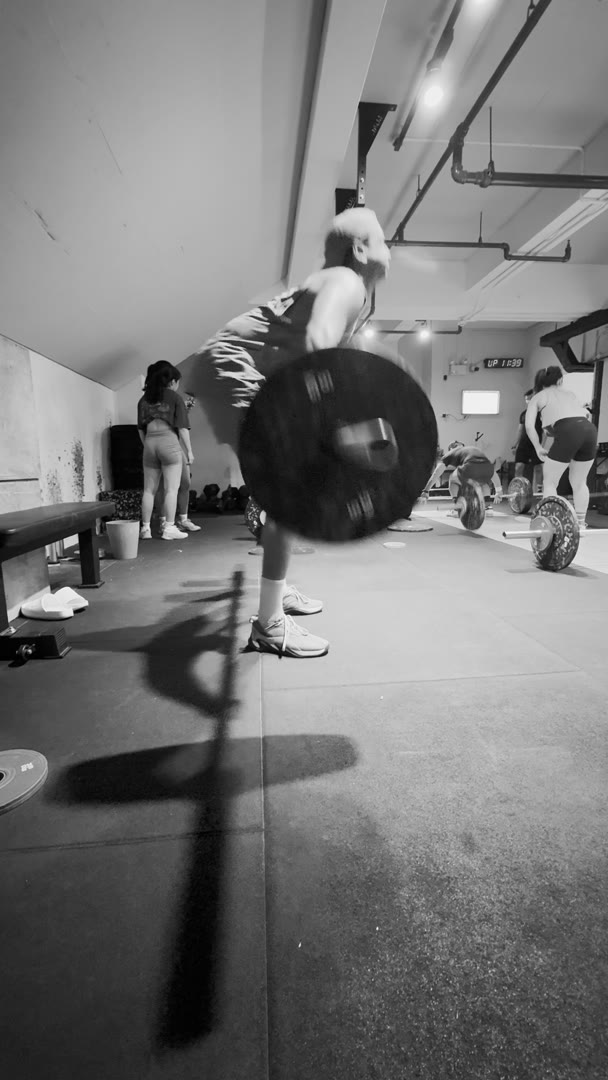
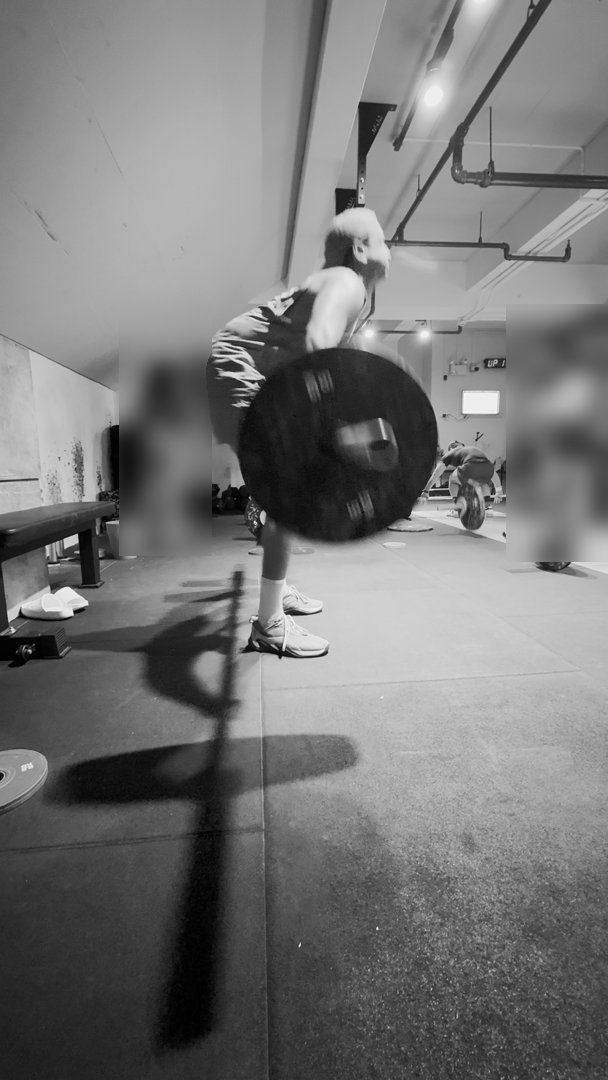
fix(onboarding): sample uses the real side-on CV analysis, bystanders blurred
The sample was a hand-drawn path over an angled clip, so the line floated
beside the lifter. It now uses CV v2 output for a side-on power snatch.

Changed region(s): [[0.8125, 0.275, 1.0, 0.5194], [0.1875, 0.3056, 0.3438, 0.5194]]

diff --git a/src/analysis/frames.ts b/src/analysis/frames.ts
@@ -87,6 +87,34 @@ const BUNDLED: Record<string, { color: ImageSourcePropType; gray: ImageSourcePro
     color: require('../../assets/analysis/snatch-real/r2-7-recovery.jpg'),
     gray: require('../../assets/analysis/snatch-real/gray/r2-7-recovery.jpg'),
   },
+  'snatch-sideon/r1-1-setup': {
+    color: require('../../assets/analysis/snatch-sideon/r1-1-setup.jpg'),
+    gray: require('../../assets/analysis/snatch-sideon/gray/r1-1-setup.jpg'),
+  },
+  'snatch-sideon/r1-2-first_pull': {
+    color: require('../../assets/analysis/snatch-sideon/r1-2-first_pull.jpg'),
+    gray: require('../../assets/analysis/snatch-sideon/gray/r1-2-first_pull.jpg'),
+  },
+  'snatch-sideon/r1-3-transition': {
+    color: require('../../assets/analysis/snatch-sideon/r1-3-transition.jpg'),
+    gray: require('../../assets/analysis/snatch-sideon/gray/r1-3-transition.jpg'),
+  },
+  'snatch-sideon/r1-4-second_pull': {
+    color: require('../../assets/analysis/snatch-sideon/r1-4-second_pull.jpg'),
+    gray: require('../../assets/analysis/snatch-sideon/gray/r1-4-second_pull.jpg'),
+  },
+  'snatch-sideon/r1-5-turnover': {
+    color: require('../../assets/analysis/snatch-sideon/r1-5-turnover.jpg'),
+    gray: require('../../assets/analysis/snatch-sideon/gray/r1-5-turnover.jpg'),
+  },
+  'snatch-sideon/r1-6-catch': {
+    color: require('../../assets/analysis/snatch-sideon/r1-6-catch.jpg'),
+    gray: require('../../assets/analysis/snatch-sideon/gray/r1-6-catch.jpg'),
+  },
+  'snatch-sideon/r1-7-recovery': {
+    color: require('../../assets/analysis/snatch-sideon/r1-7-recovery.jpg'),
+    gray: require('../../assets/analysis/snatch-sideon/gray/r1-7-recovery.jpg'),
+  },
 };
 
 export function frameSource(image: string | undefined, gray = false): ImageSourcePropType | null {

diff --git a/src/analysis/fixtures/index.ts b/src/analysis/fixtures/index.ts
@@ -2,6 +2,7 @@ import type { Analysis, Point, Rep } from '../types';
 import { keyFrameForPhase, pointAt, repByIndex } from '../timeline';
 import mock from './snatch-mock.json';
 import real from './snatch-real.json';
+import sideon from './snatch-sideon.json';
 import { parseAnalysis } from '../parse';
 import { liveAnalysis } from '../live';
 
@@ -10,6 +11,12 @@ export const snatchMock = parseAnalysis(mock);
 export const snatchReal = parseAnalysis(
   JSON.parse(
     JSON.stringify(real).replace(/assets\/analysis\/snatch-real\/([^"]+)\.jpg/g, 'asset:snatch-real/$1'),
+  ),
+);
+
+export const snatchSideon = parseAnalysis(
+  JSON.parse(
+    JSON.stringify(sideon).replace(/assets\/analysis\/snatch-sideon\/([^"]+)\.jpg/g, 'asset:snatch-sideon/$1'),
   ),
 );
 

diff --git a/app/onboarding/sample.tsx b/app/onboarding/sample.tsx
@@ -1,10 +1,10 @@
 import { useRouter } from 'expo-router';
-import { snatchMock } from '../../src/analysis/fixtures';
+import { snatchSideon } from '../../src/analysis/fixtures';
 import SampleScreen from '../../src/features/onboarding/SampleScreen';
 import { useFlow } from '../../src/features/onboarding/useFlow';
 
 export default function SampleRoute() {
   const router = useRouter();
   const { go } = useFlow('film');
-  return <SampleScreen sample={snatchMock} onBack={() => router.back()} onFilm={() => go('sample')} />;
+  return <SampleScreen sample={snatchSideon} onBack={() => router.back()} onFilm={() => go('sample')} />;
 }
